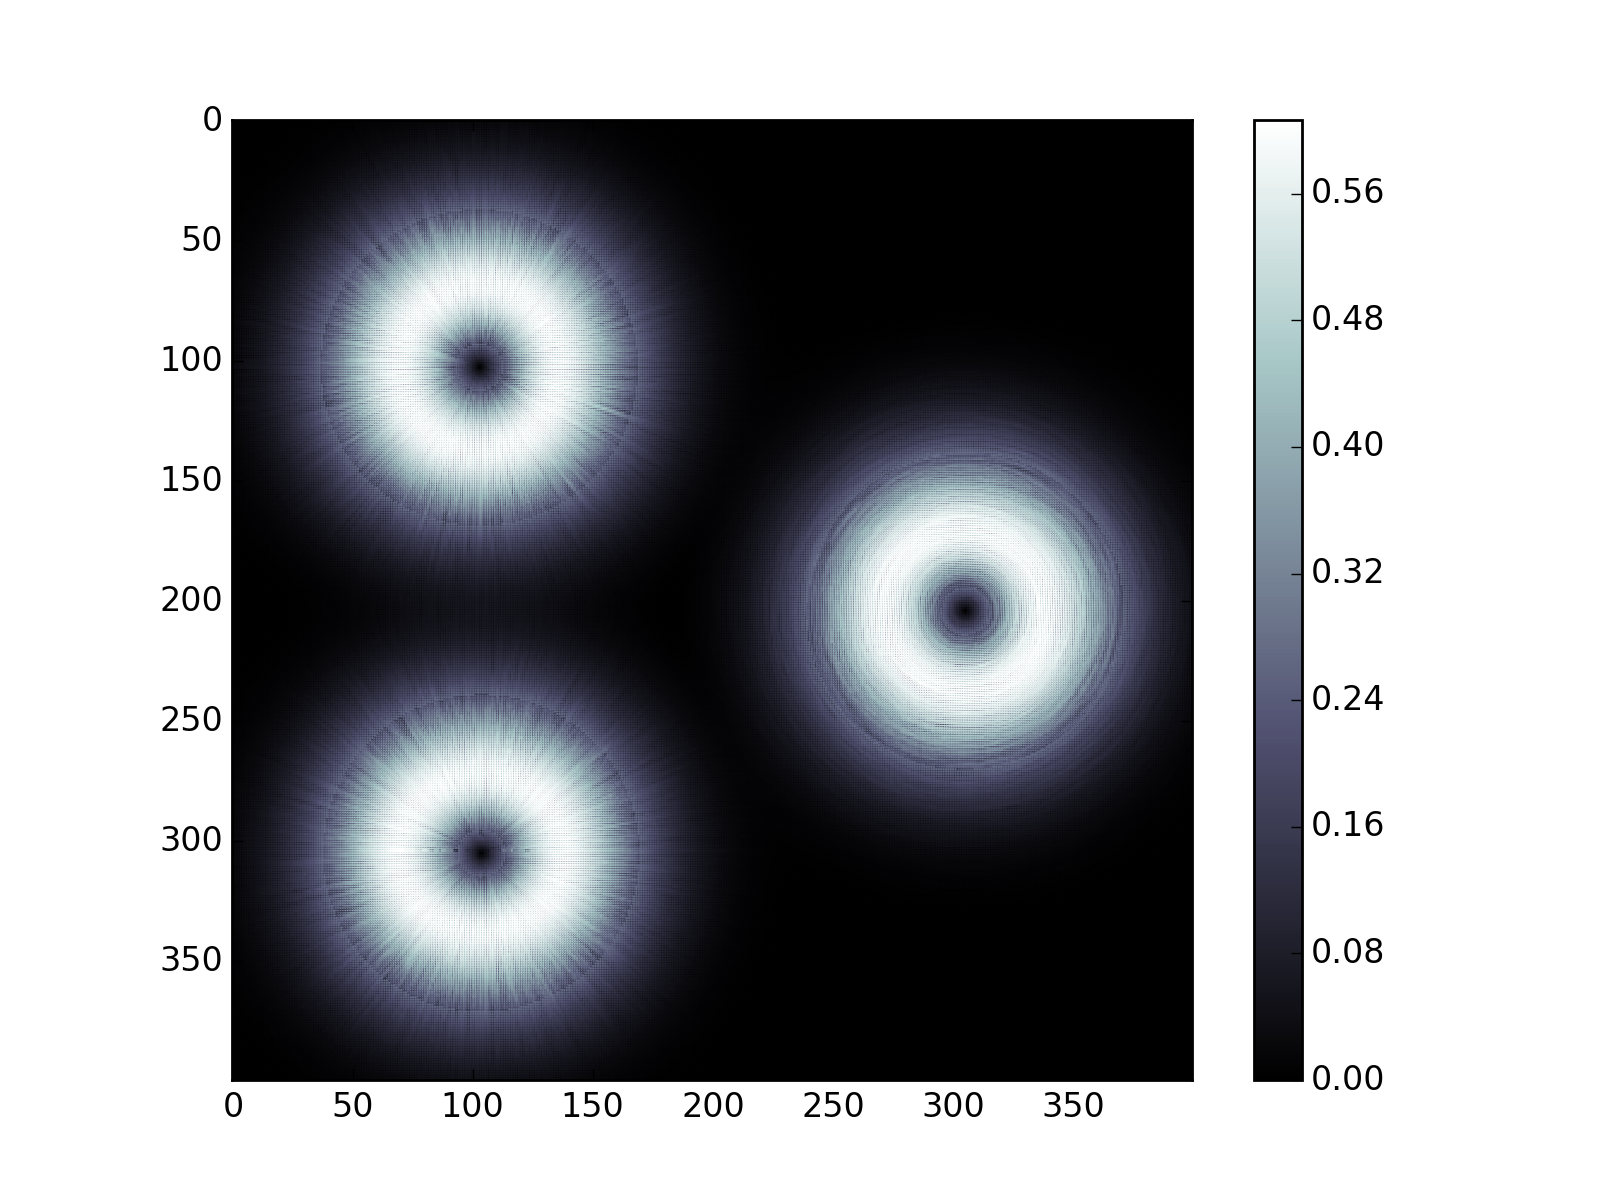
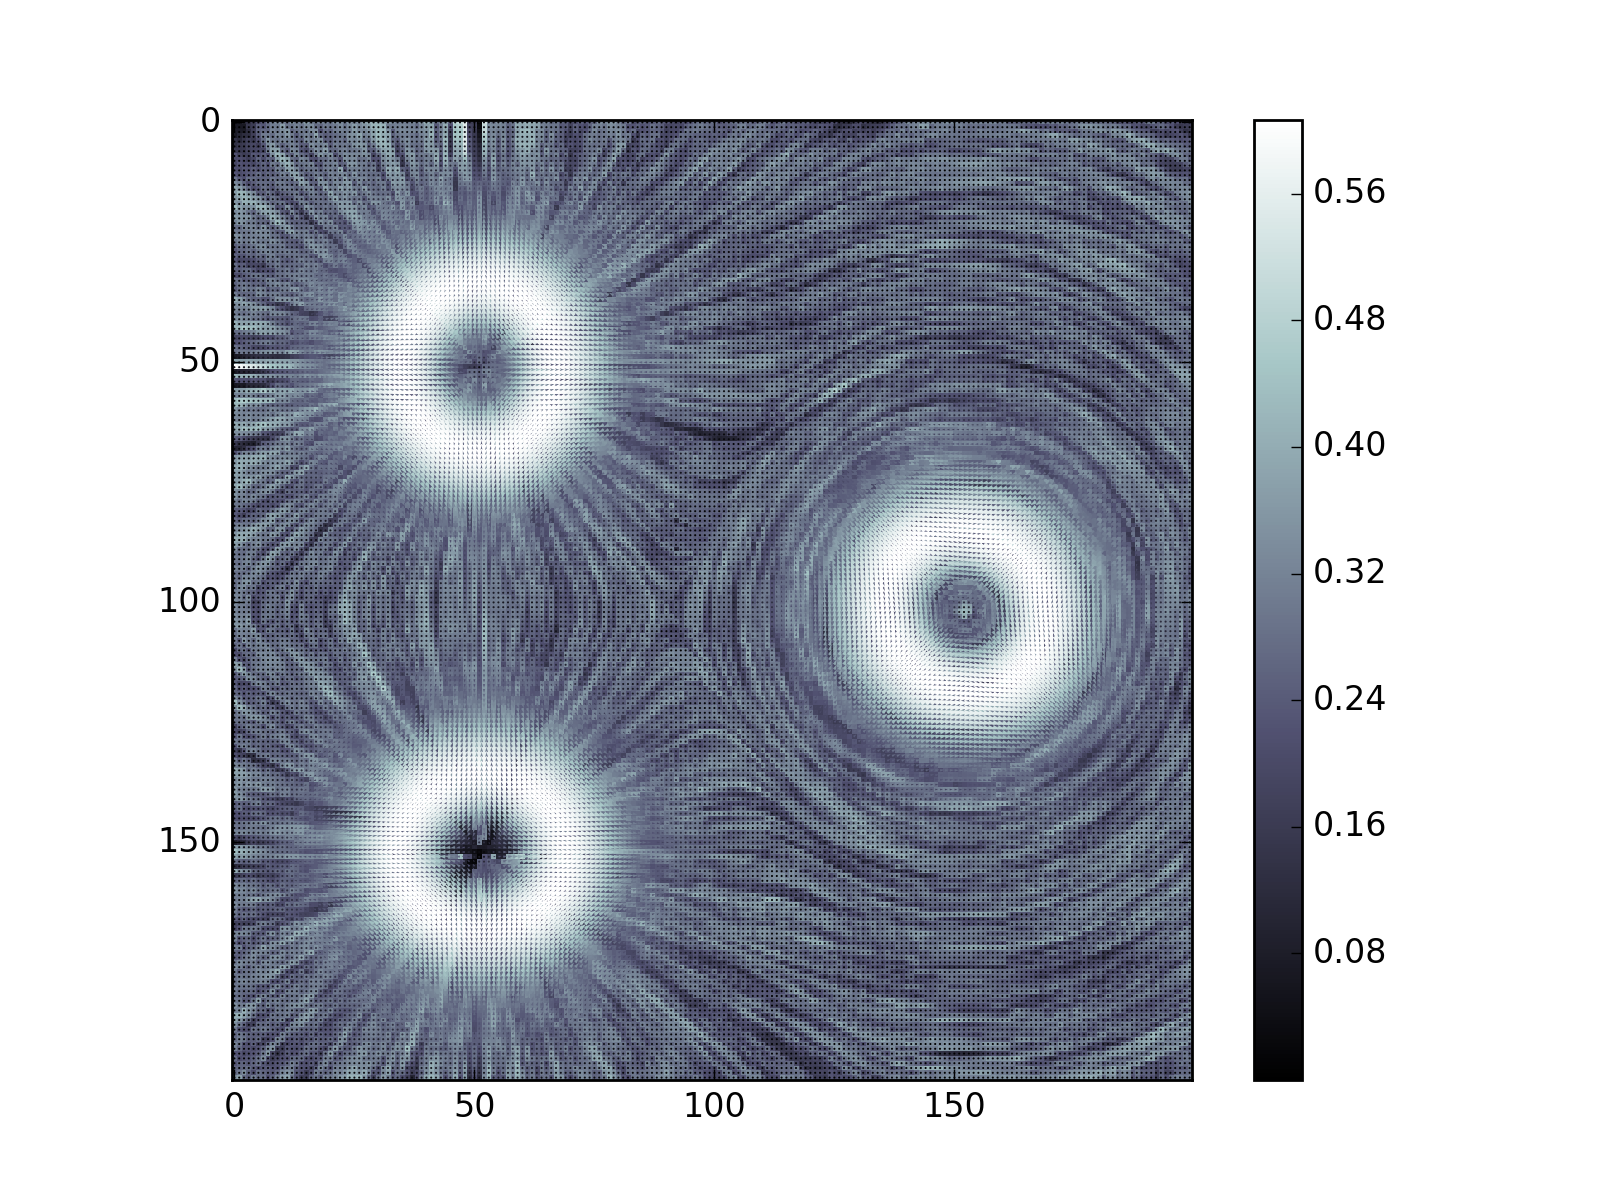
LIC Improvement.
Fixing setup.py and improving output image for the example.

diff --git a/LIC/setup.py b/LIC/setup.py
@@ -6,6 +6,6 @@ import numpy as np
 setup(
     cmdclass = {'build_ext': build_ext},
     include_dirs = [np.get_include()],
-    ext_modules = [Extension("lic_internal", ["lic_internal.pyx"])]
+    ext_modules = [Extension("lic_internal", ["lic_internal.pyx"], include_dirs=[np.get_include()])]
 )
 

diff --git a/LIC/lic_demo.py b/LIC/lic_demo.py
@@ -71,4 +71,4 @@ def vector_flow(output_file, i_factor=1):
 
 if __name__ == '__main__':
 	vector_flow("original")
-	vector_flow("more_resolution", 4)
+	vector_flow("more_resolution", 2)
